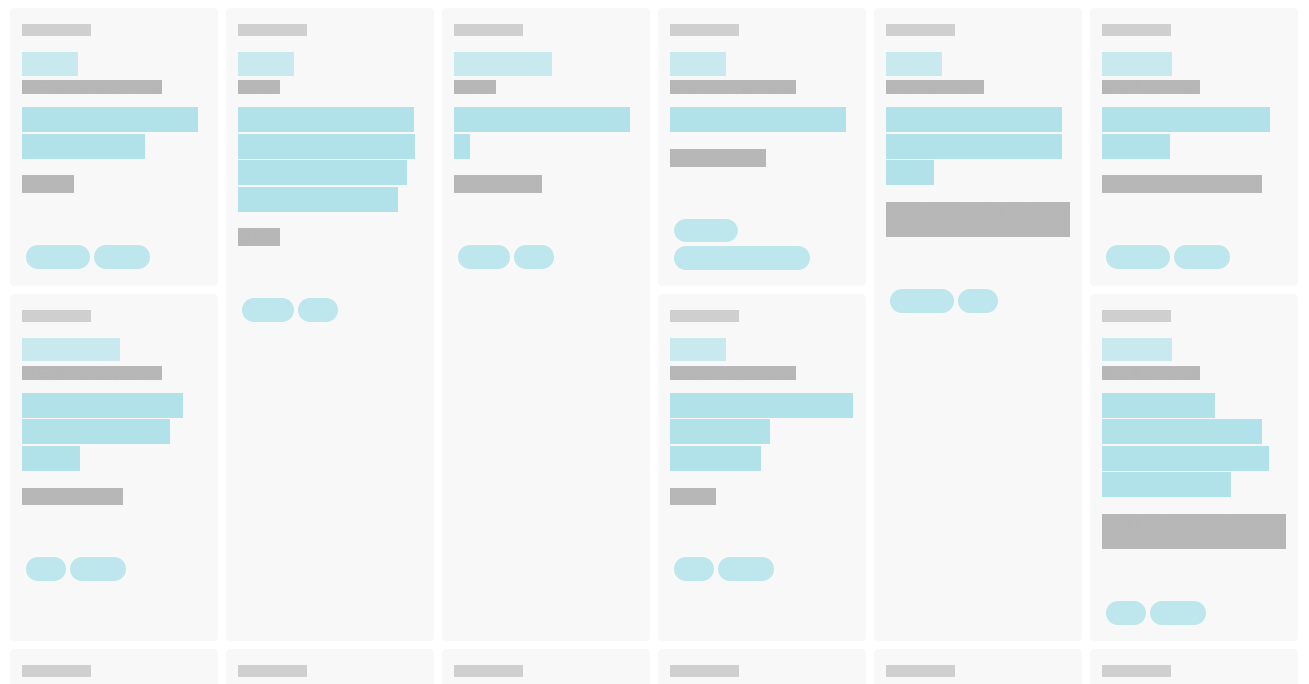
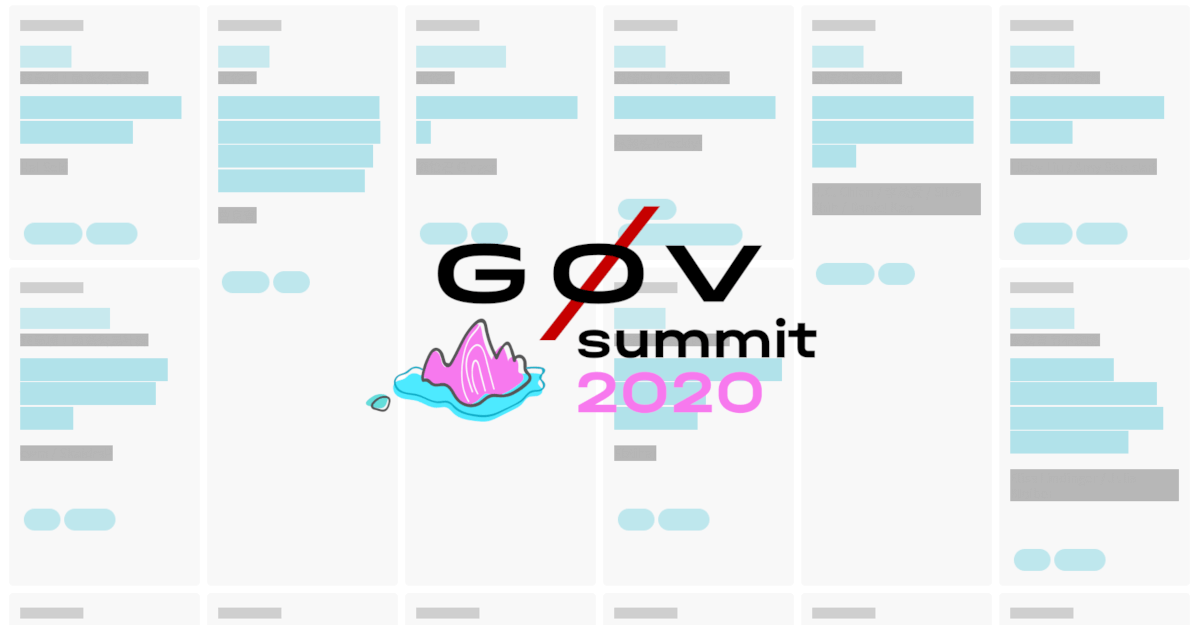
chore: update agenda and speaker page og image

diff --git a/pages/moderators-and-speakers.vue b/pages/moderators-and-speakers.vue
@@ -25,7 +25,7 @@
         .person__name(itemprop="name") {{person.display_name}}
     h2.mas__title {{$t('speakers')}}
     .mas__people
-      nuxt-link.mas__person.person.dim(
+      nuxt-link.mas__person.person.dim.flex.flex-column.items-center(
         v-for="(person, index) in speakers"
         :key="person.key"
         :to="localePath(person.agendaUrl)"
@@ -34,7 +34,7 @@
       )
         .person__avatar-wrapper.relative
           img.person__avatar(
-            v-if="person.avatar_url"
+            v-if="person.avatar_url && false"
             :src="person.avatar_url"
             :alt="person.display_name"
             itemprop="image"
@@ -44,8 +44,8 @@
             :title="person.display_name"
           )
           .person__bg(:class="[`person__bg--${index % 3}`]")
-        .person__org(itemprop="affiliation") {{person.organization}}
-        .person__name(itemprop="name") {{person.display_name}}
+        span.person__org(itemprop="affiliation") {{person.organization}}
+        span.person__name(itemprop="name") {{person.display_name}}
 </template>
 <script>
 import { friendlyHeader } from '~/utils/crawlerFriendly'
@@ -99,13 +99,14 @@ export default {
     },
     description () {
       return this.$t('moderatorsAndSpeakers')
-    }
+    },
+    coverUrl: '/og-moderators-n-speakers.png'
   })
 }
 </script>
 <style lang="scss" scoped>
 .mas {
-  max-width: 82rem;
+  // max-width: 82rem;
   &__title {
     font-size: 2.25rem;
     font-weight: 500;
@@ -171,10 +172,21 @@ export default {
     color: $pink-1;
     margin-top: 0.5rem;
     margin-bottom: 0.5rem;
+
+    display: inline;
+    background: $pink-1;
+    opacity: 0.3;
+    border-radius: 0.25rem;
   }
   &__name {
     font-size: 0.875rem;
     color: #303030;
+
+    color: transparent;
+    display: inline;
+    background: #303030;
+    opacity: 0.2;
+    border-radius: 0.25rem;
   }
 }
 </style>
